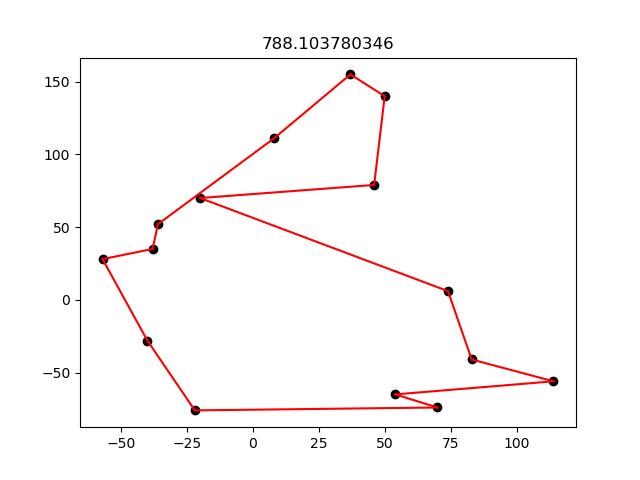
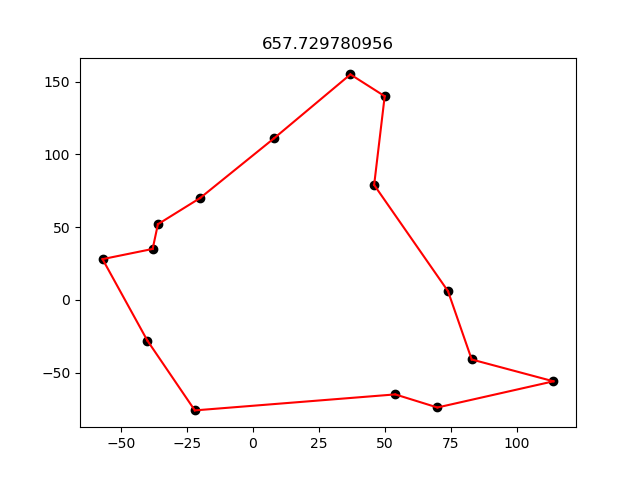
zmiany metody

diff --git a/main.py b/main.py
@@ -13,6 +13,7 @@ Strategia (µ+λ) - z populacji (µ+λ) wybieramy µ najlepszych osobników, λ 
 import numpy as np
 import random
 import matplotlib.pyplot as plt
+from collections import deque
 from pop import Invid
 
 
@@ -64,7 +65,7 @@ class Genetic:
 
         :return: rzeczywisty dystans na mapie pomiędzy dwoma miastami
         """
-        return ((xx[0]-yy[0])**2+(xx[1]-yy[1])**2)**(1/2)
+        return ((xx[0] - yy[0]) ** 2 + (xx[1] - yy[1]) ** 2) ** (1 / 2)
 
     def calc_dist_matrix(self, blocked):
         """
@@ -83,7 +84,7 @@ class Genetic:
         for path in blocked:
             self.dist_matrix[path[0]][path[1]] = 9999999
             self.dist_matrix[path[1]][path[0]] = 9999999
-        self.save_dist_matrix("data//wg22_dist.txt")
+        # self.save_dist_matrix("data//wg22_dist.txt")
 
     def save_dist_matrix(self, pathname):
         np.savetxt(pathname, self.dist_matrix)
@@ -114,7 +115,8 @@ class Genetic:
                 print("Pokolenie: {}".format(liczba_pokolen))
             ############################################
             #           KRZYŻOWANIE I MUTACJA
-            childrens = self.crossover(populacja, lenght, no_of_parent)
+            childrens = self.crossover_OX(populacja, lenght)
+            # childrens = self.crossover(populacja, lenght, no_of_parents)
             for child in childrens:
                 if random.random() < mutation:
                     child.mutation()
@@ -136,7 +138,7 @@ class Genetic:
     def crossover(self, populacja, lenght, no_of_parents=5, multiply=4):
         """
         krzyżowanie rodziców w celu wyznaczenia potomków
-
+        NARAZIE NIE UŻYWANY
         :param multiply: ile razy więcej potomków musimy wyznaczyć
         :param populacja: aktualna populacja osobników
         :param lenght: ilość rozpatrywanych miast
@@ -148,12 +150,12 @@ class Genetic:
         childrens = []
         pop_lenght = len(populacja)
         pop_nums = range(0, pop_lenght)
-        for _ in range(pop_lenght*multiply):
+        for _ in range(pop_lenght * multiply):
             dziecko = []
             nums = random.sample(pop_nums, k=no_of_parents)
             krzyzowanie = [populacja[nums[i]] for i in range(len(nums))]
             # wyznacz jednego losowego rodzica
-            ruletka = [val for val in np.arange(float(1/no_of_parents), 1, float(1/no_of_parents))]
+            ruletka = [val for val in np.arange(float(1 / no_of_parents), 1, float(1 / no_of_parents))]
             ruletka.append(1)
             val_rand = random.random()
             for j in range(len(ruletka)):
@@ -180,9 +182,9 @@ class Genetic:
                     values.append(max)
                 neigh = []
                 ind = 0
-                for v in range(0, int(len(values)/2)):
+                for v in range(0, int(len(values) / 2)):
                     neigh.append(krzyzowanie[v].param_values[values[ind]])  # min
-                    neigh.append(krzyzowanie[v].param_values[values[ind+1]])  # max
+                    neigh.append(krzyzowanie[v].param_values[values[ind + 1]])  # max
                     ind += 2
                 dist_vector = [self.dist_matrix[dziecko[i]][j] for j in neigh]
                 values, dist_vector = (list(x) for x in
@@ -207,6 +209,42 @@ class Genetic:
             childrens.append(Invid(dziecko))
         return childrens
 
+    def crossover_OX(self, populacja, lenght, multiply=4):
+        """
+        krzyżowanie rodziców w celu wyznaczenia potomkóm (metoda OX)
+        
+        :param multiply: ile razy więcej potomków musimy wyznaczyć
+        :param populacja: aktualna populacja osobników
+        :param lenght: ilość rozpatrywanych miast
+        :param no_of_parents: z ilu rodziców będzie składał się potomek
+        """
+        childrens = []
+        pop_lenght = len(populacja)
+        pop_nums = range(0, pop_lenght)
+        for _ in range(int(pop_lenght * multiply / 2)):
+            nums = random.sample(pop_nums, k=2)
+            krzyzowanie = [populacja[nums[i]] for i in range(len(nums))]
+            random_nrs = sorted(random.sample(range(1, lenght - 1), k=2))
+            first_middle = krzyzowanie[0].param_values[random_nrs[0]:random_nrs[1]]
+            second_middle = krzyzowanie[1].param_values[random_nrs[0]:random_nrs[1]]
+            dziecko1 = np.copy(first_middle)
+            dziecko2 = np.copy(second_middle)
+            for i in range(lenght):
+                current_index = (random_nrs[1] + i) % lenght
+                value1 = krzyzowanie[1].param_values[current_index]
+                value2 = krzyzowanie[0].param_values[current_index]
+                if value1 not in first_middle:
+                    dziecko1 = np.append(dziecko1, value1)
+                if value2 not in second_middle:
+                    dziecko2 = np.append(dziecko2, value2)
+            dziecko1 = deque(dziecko1)
+            dziecko2 = deque(dziecko2)
+            dziecko1.rotate(random_nrs[0])
+            dziecko2.rotate(random_nrs[0])
+            childrens.append(Invid(list(dziecko1)))
+            childrens.append(Invid(list(dziecko2)))
+        return childrens
+
     def plot_result(self):
         """
         narysuj na ekranie wykresy dot.:
@@ -218,12 +256,12 @@ class Genetic:
         ax1.set_title(str(self.min))
         for point in self.c_dist:
             ax1.plot(point[0], point[1], 'ko')
-        for i in range(len(self.min_ciag)-1):
-            x = [self.c_dist[self.min_ciag[i]][0], self.c_dist[self.min_ciag[i+1]][0]]
+        for i in range(len(self.min_ciag) - 1):
+            x = [self.c_dist[self.min_ciag[i]][0], self.c_dist[self.min_ciag[i + 1]][0]]
             y = [self.c_dist[self.min_ciag[i]][1], self.c_dist[self.min_ciag[i + 1]][1]]
             ax1.plot(x, y, "r-")
-        x = [self.c_dist[self.min_ciag[len(self.min_ciag)-1]][0], self.c_dist[self.min_ciag[0]][0]]
-        y = [self.c_dist[self.min_ciag[len(self.min_ciag)-1]][1], self.c_dist[self.min_ciag[0]][1]]
+        x = [self.c_dist[self.min_ciag[len(self.min_ciag) - 1]][0], self.c_dist[self.min_ciag[0]][0]]
+        y = [self.c_dist[self.min_ciag[len(self.min_ciag) - 1]][1], self.c_dist[self.min_ciag[0]][1]]
         ax1.plot(x, y, "r-")
         fig1.show()
         fig2 = plt.figure()
@@ -239,14 +277,12 @@ class Genetic:
         ax = fig.add_subplot("111")
         for i in range(len(self.c_dist)):
             ax.plot(self.c_dist[i][0], self.c_dist[i][1], 'ro')
-            ax.text(self.c_dist[i][0]-10, self.c_dist[i][1]-5, "{0}. {1}".format(i+1, self.c_names[i]))
+            ax.text(self.c_dist[i][0] - 10, self.c_dist[i][1] - 5, "{0}. {1}".format(i + 1, self.c_names[i]))
         fig.show()
 
 
 if __name__ == "__main__":
     gen2 = Genetic("data\\wg22_name.txt", "data\\wg22_xy.txt")
     gen2.plot_cities()
-    gen2.start_algorithm(1000, 2000, 0.7, 4)
+    gen2.start_algorithm(100, 200, 0.05, 2)
     gen2.plot_result()
-
-# 1089.39788074

diff --git a/pop.py b/pop.py
@@ -13,9 +13,6 @@ class Invid:
         self.cost = 0
         self.value = 0
 
-    def __lt__(self, other):
-        return self.value < other.value
-
     def __gt__(self, other):
         return self.value > other.value
 
@@ -56,15 +53,16 @@ class Invid:
         """
         wykonaj operację mutacji na osobniku
         """
+        # zmiana zasięgu mutacji w zależności od jej poprawy przystosowania?
         # inwersja
-        # lenght = len(self.param_values)
-        # len_vec_of = random.randint(0, lenght)
-        # number = random.randint(0, lenght-len_vec_of)
-        # vector = self.param_values[number:number+len_vec_of]
-        # for _ in range(len_vec_of):
-        #     self.param_values.pop(number)
-        # for item in vector:
-        #     self.param_values.insert(number, item)
+        lenght = len(self.param_values)
+        len_vec_of = random.randint(0, lenght)
+        number = random.randint(0, lenght-len_vec_of)
+        vector = self.param_values[number:number+len_vec_of]
+        for _ in range(len_vec_of):
+            self.param_values.pop(number)
+        for item in vector:
+            self.param_values.insert(number, item)
 
         # wstawienie
         # lenght = len(self.param_values)
@@ -74,12 +72,12 @@ class Invid:
         # self.param_values.insert(rand2, value)
 
         # przestawienie
-        lenght = len(self.param_values)
-        len_vec_of = random.randint(0, lenght)
-        number = random.randint(0, lenght - len_vec_of)
-        vector = self.param_values[number:number + len_vec_of]
-        for _ in range(len_vec_of):
-            self.param_values.pop(number)
-        for i, item in enumerate(vector):
-            self.param_values.insert(number+i, item)
+        # lenght = len(self.param_values)
+        # len_vec_of = random.randint(0, lenght)
+        # number = random.randint(0, lenght - len_vec_of)
+        # vector = self.param_values[number:number + len_vec_of]
+        # for _ in range(len_vec_of):
+        #     self.param_values.pop(number)
+        # for i, item in enumerate(vector):
+        #     self.param_values.insert(number+i, item)
 
